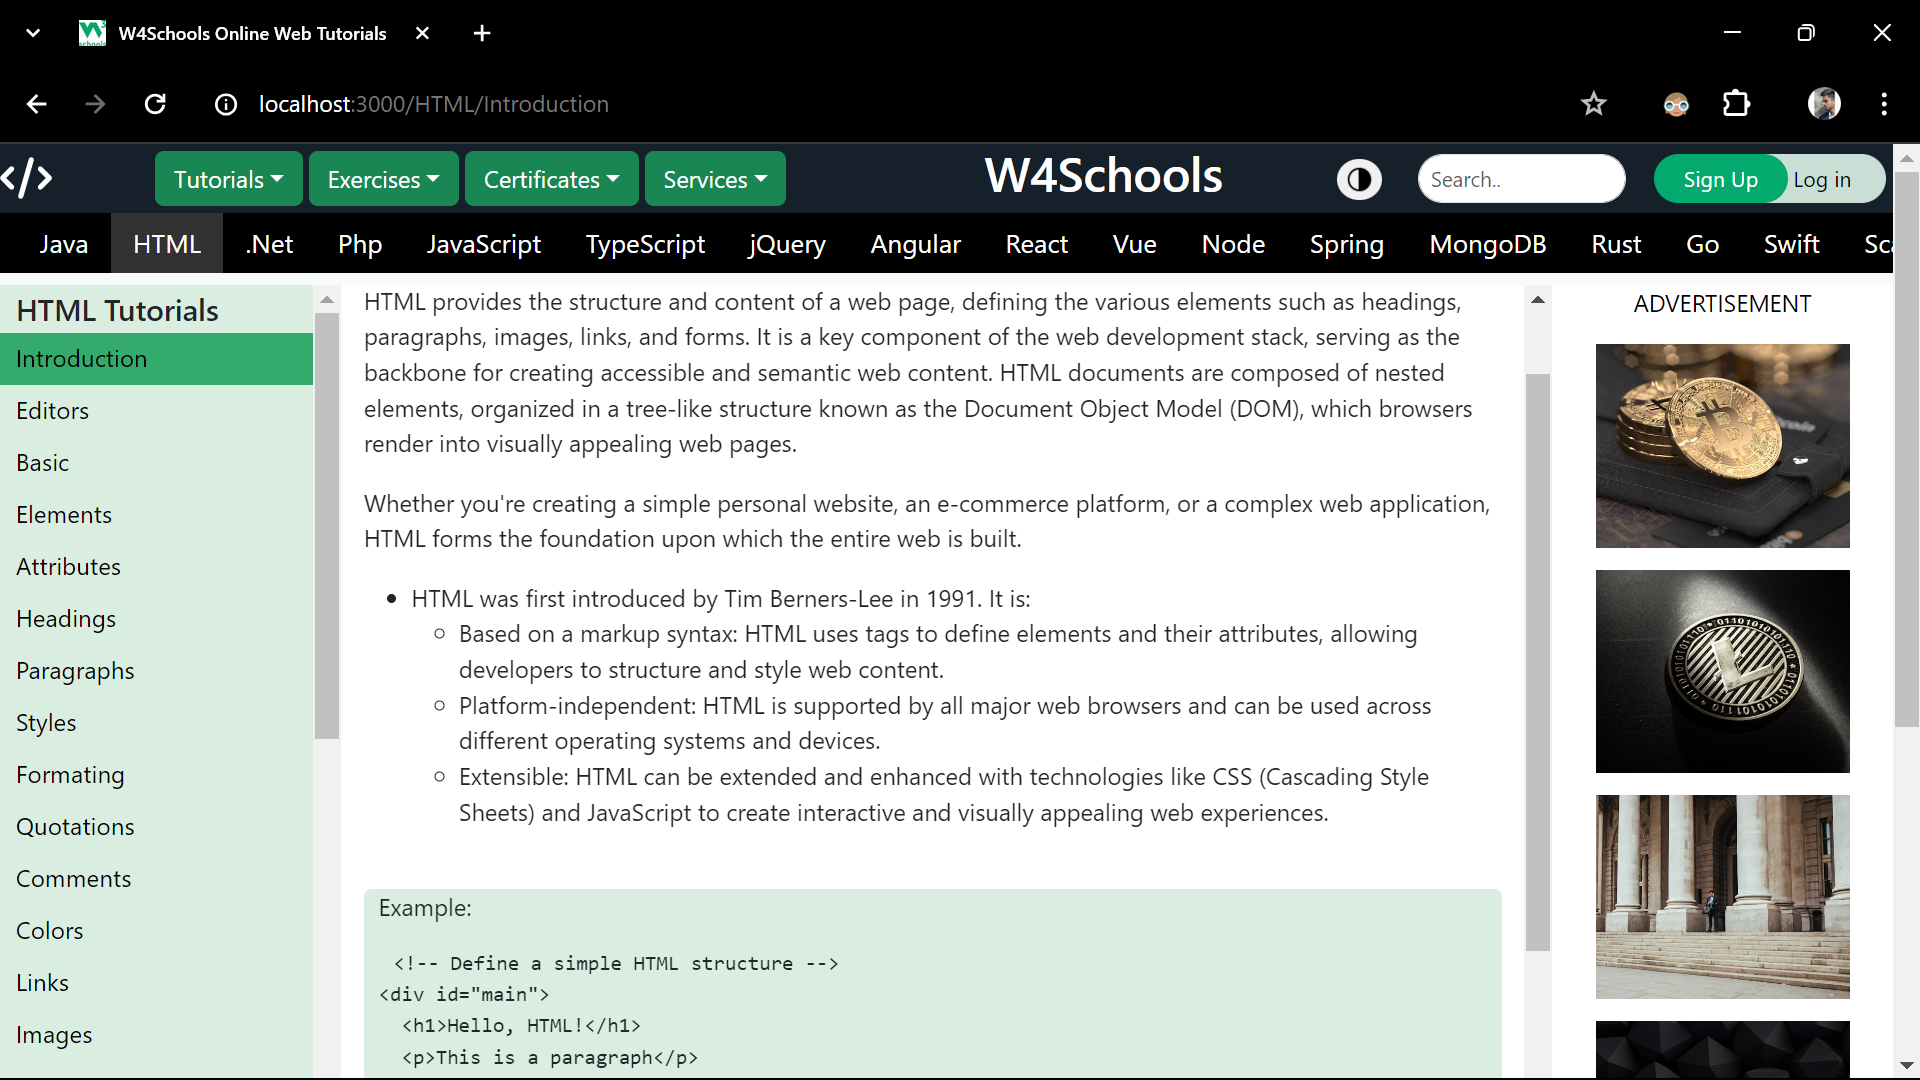
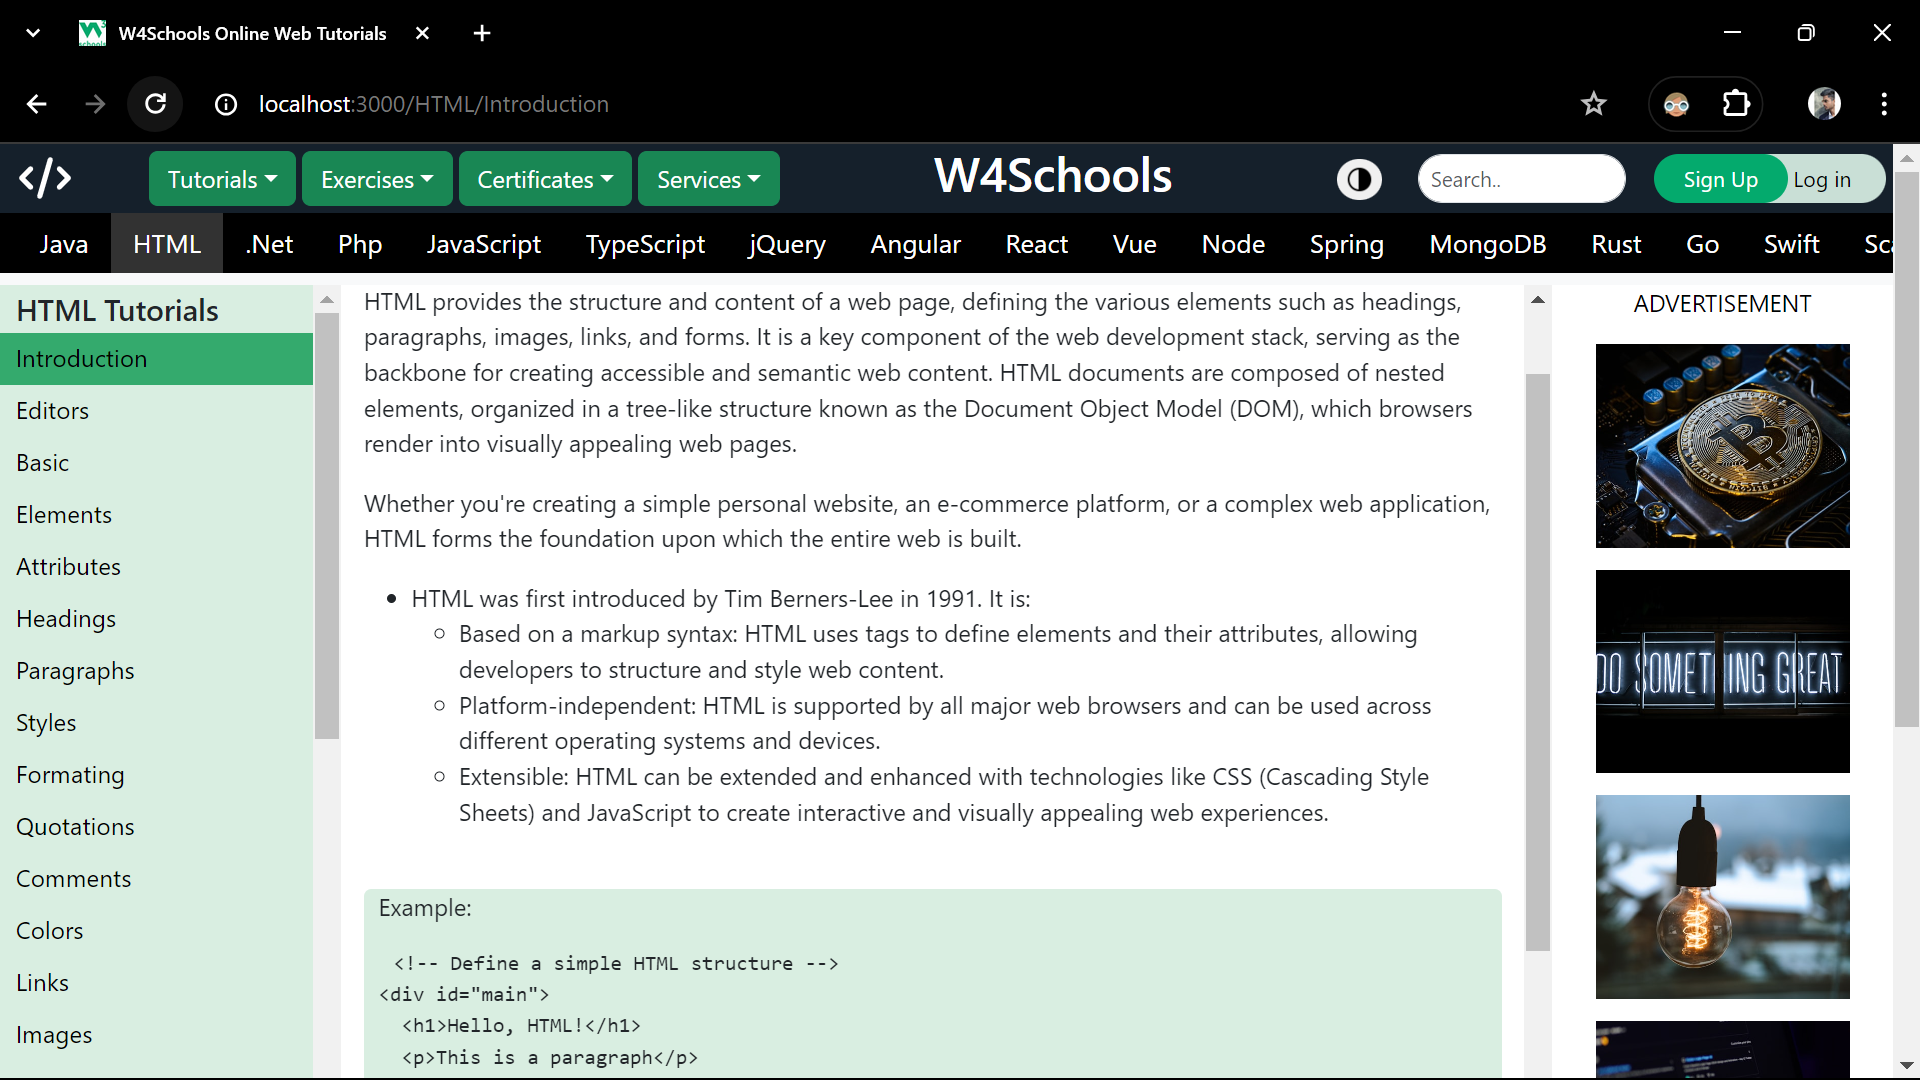
first commit

diff --git a/src/MyComponent/Home.jsx b/src/MyComponent/Home.jsx
@@ -1,69 +1,3 @@
-// import { NavLink,Outlet} from 'react-router-dom';
-// import Nav from 'react-bootstrap/Nav';
-// import Navbar from 'react-bootstrap/Navbar';
-// import Container from 'react-bootstrap/Container';
-// import Header from './header';
-// import Footer from './footer'
-// import Advertisement from './advertisement';
-// import { useState } from 'react';
-
-// let arr = ["Java", "HTML", ".Net", "Php", "JavaScript", "TypeScript", "jQuery", "Angular", "React", "Vue", "Node", "Spring", "MongoDB", "Rust", "Go", "Swift", "Scala", "Ruby" , "MySQL", "PostgreSQL", "Django", "Kotlin", "SASS", "Git", "GitHub", "DSA", "AWS"];
-
-
-// export default function Home(){
-
-
-// // SEARCH USER
-// const [user, setUser] = useState(arr)
-
-// function handleSearch(text) {
-//   const fliteredUser = arr.filter((val) =>  val.includes(text) );
-//   setUser(fliteredUser);
-// }
-
-
-//   return (
-//    <>
-//     <Header passingprops={handleSearch}/>
-    
-
-//     <Navbar style={{position: 'sticky', top: '0', zIndex: '33'}} collapseOnSelect expand="lg" className="bg-body-tertiary " >
-//       <Container id='parentCon' style={{overflow: 'auto', scrollbarWidth: 'none'}} fluid>
-//       <Navbar.Toggle aria-controls="responsive-navbar-nav" />
-//       <Navbar.Collapse id="responsive-navbar-nav" >
-//           <Nav className="me-auto"
-//             navbarScroll >
-//             {user.map((val) =>(
-//                     <NavLink id='nav-link'  className={({ isActive }) => { console.log({isActive})
-//                   return isActive ? "activelink" : "";
-//                 }} to = {val}>{val}</NavLink>
-//             ))}
-            
-//           </Nav>
-//         </Navbar.Collapse>
-//       </Container>
-//     </Navbar>
-
-//     <div style={{display: 'flex', height: '97vh'}}>
-//       <div id='main-outlet'>
-//         <Outlet/>
-//       </div>
-      
-//       <div id='add'>
-//         <Advertisement/>
-//       </div>
-//     </div>
-    
-//       <Footer/>
-//   </>
-//   )
-// }
-
-
-
-
-// Switching Modes here
-
 import React, { useState } from 'react';
 import { NavLink, Outlet } from 'react-router-dom';
 import Nav from 'react-bootstrap/Nav';

diff --git a/src/MyComponent/advertisement.jsx b/src/MyComponent/advertisement.jsx
@@ -1,14 +1,14 @@
 const imgUrl = [
                 "https://source.unsplash.com/500x400/?cryptocurrency",
                 "https://source.unsplash.com/500x400/?ethereum",
+                "https://source.unsplash.com/500x400/?github", 
                 "https://source.unsplash.com/500x400/?smart-contracts",
                 "https://source.unsplash.com/500x400/?ico",
                 "https://source.unsplash.com/500x400/?defi",
                 "https://source.unsplash.com/500x400/?web3",
                 "https://source.unsplash.com/500x400/?dapp",
-                "https://source.unsplash.com/500x400/?twitter", 
                 "https://source.unsplash.com/500x400/?linkedin",
-                "https://source.unsplash.com/500x400/?sourcecode", 
+                "https://source.unsplash.com/500x400/?coding", 
                 "https://source.unsplash.com/500x400/?hacking",
               ];
 

diff --git a/src/MyComponent/header.jsx b/src/MyComponent/header.jsx
@@ -10,10 +10,10 @@ const Header = ({passingprops}) => {
     <>
      <header>
       
-      <Link style={{color: 'white'}} to="/"><FaCode size={35}/></Link>
+      <Link style={{color: 'white', marginLeft: '1%'}} to="/"><FaCode size={35}/></Link>
       
-      <div id='logo-dropdown'>
-      <div id='dropdown' style={{display: 'flex'}}>
+      <div id='logo-dropdown' style={{marginLeft: '-9%'}}>
+      <div id='dropdown' style={{display: 'flex', width:'fit-content'}}>
       <Dropdown style={{margin: "0px 2px"}}>
       <Dropdown.Toggle variant="success" id="dropdown-basic">
         Tutorials
@@ -69,7 +69,7 @@ const Header = ({passingprops}) => {
      
       </div>
      
-      <h2>W4Schools</h2>
+      <h2 style={{marginLeft: '-5%'}}>W4Schools</h2>
 
 
   <div id='search-register'>
